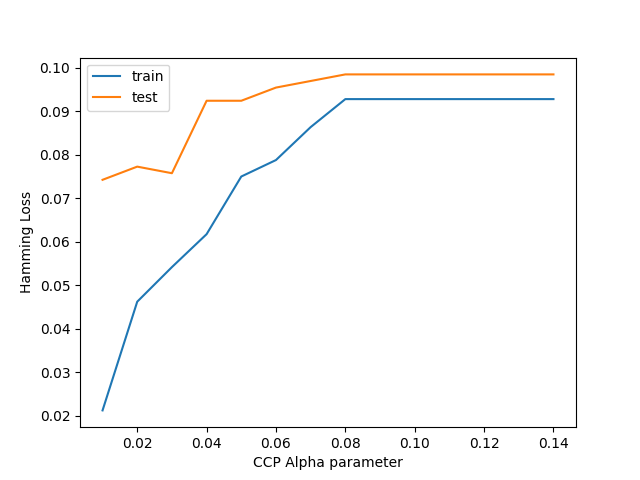
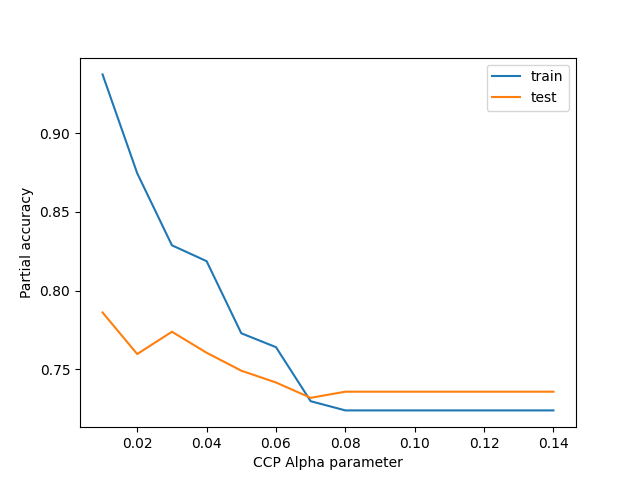
Made the plot use partial accuracy instead of hamming loss.

diff --git a/decision_tree.py b/decision_tree.py
@@ -13,8 +13,8 @@ X, Y = get_data("training_set.csv")
 x_train, x_test = train_test_split(X, train_size=0.8, random_state=101)
 y_train, y_test = train_test_split(Y, train_size=0.8, random_state=101)
 
-hamming_loss_train = []
-hamming_loss_test = []
+partial_accuracy_train = []
+partial_accuracy_test = []
 
 tree_classifier = BinaryRelevance(
     classifier = tree.DecisionTreeClassifier(criterion="Gini"),
@@ -30,16 +30,16 @@ def prune_tree():
         tree_classifier.fit(x_train, y_train)
         y_train_predictions = tree_classifier.predict(x_train)
         y_test_predictions = tree_classifier.predict(x_test)
-        hamming_loss_train.append(hamming_loss(y_train, y_train_predictions))
-        hamming_loss_test.append(hamming_loss(y_test, y_test_predictions))
+        partial_accuracy_train.append(partial_accuracy_callable(y_train, y_train_predictions))
+        partial_accuracy_test.append(partial_accuracy_callable(y_test, y_test_predictions))
 
-    plt.plot(alphas, hamming_loss_train, label="train")
-    plt.plot(alphas, hamming_loss_test, label="test")
+    plt.plot(alphas, partial_accuracy_train, label="train")
+    plt.plot(alphas, partial_accuracy_test, label="test")
     plt.legend()
     plt.xlabel("CCP Alpha parameter")
-    plt.ylabel("Hamming Loss")
+    plt.ylabel("Partial accuracy")
     plt.show()
-
+prune_tree()
 # Sweet spot seems to be ccp_alpha=0.03
 tree_classifier = BinaryRelevance(
         classifier = tree.DecisionTreeClassifier(criterion="gini", ccp_alpha=0.03),
